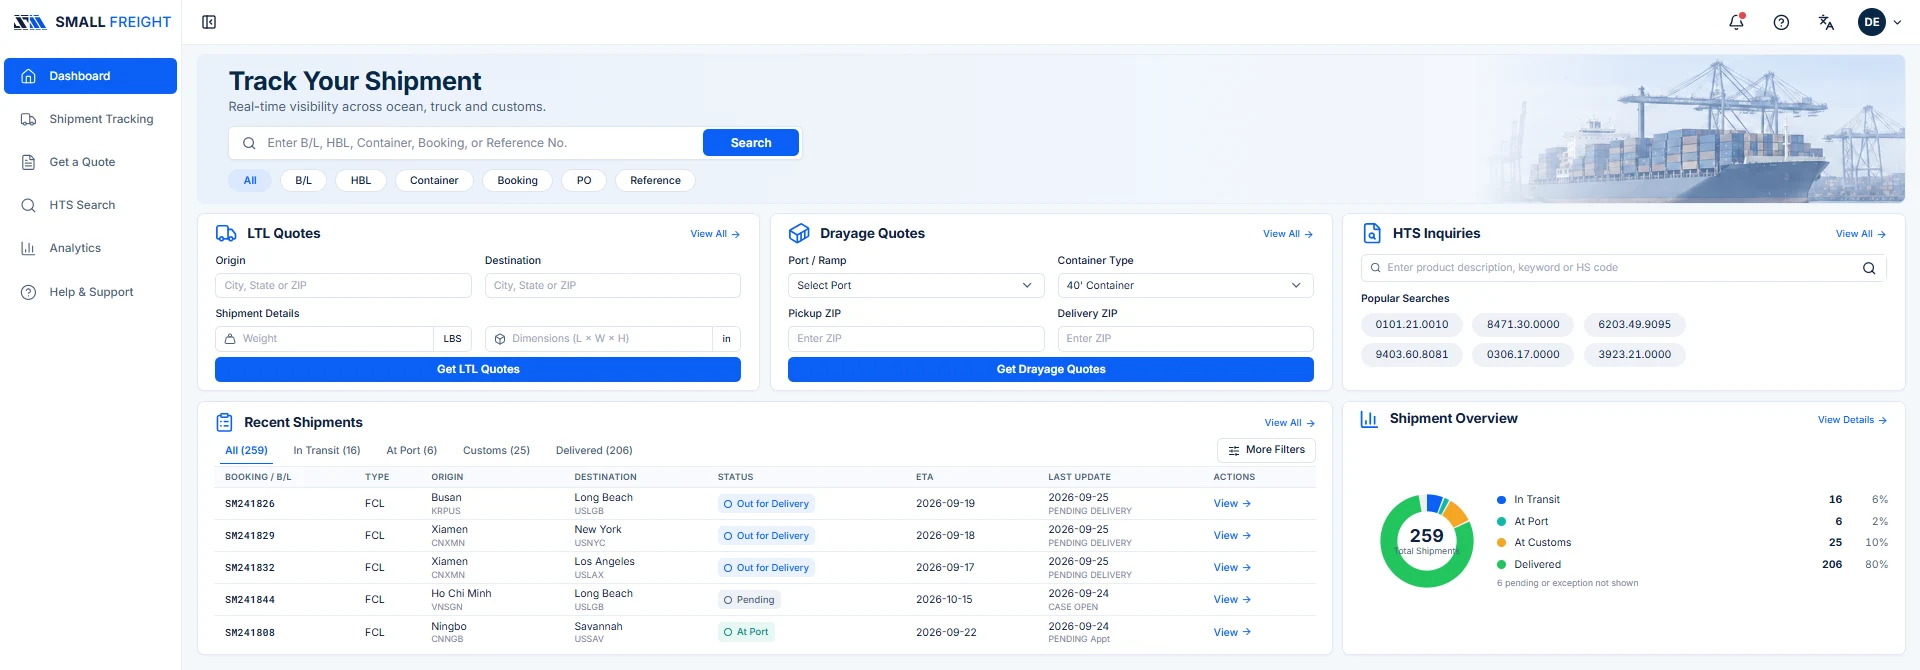
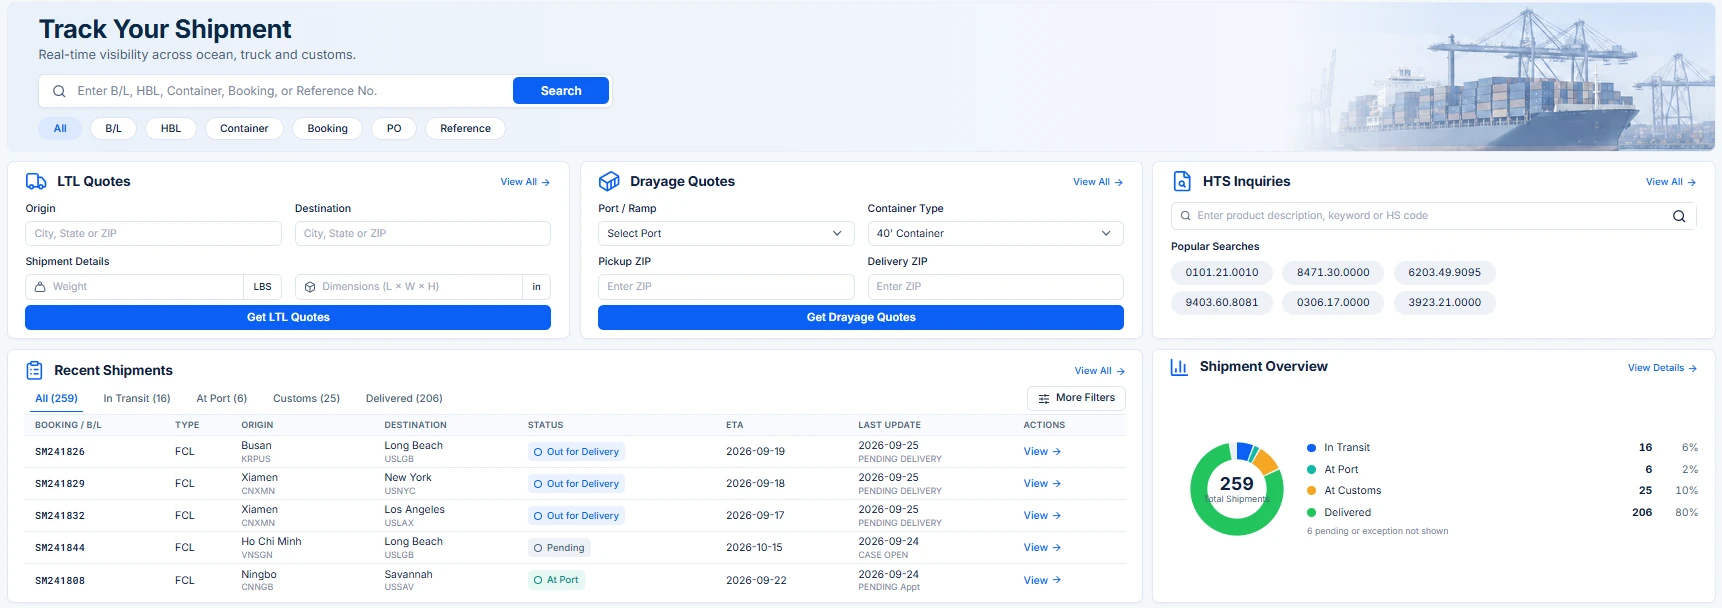
Small Freight page: larger, tighter screenshots with click-to-zoom
Crops the portal sidebar, header and empty space out of each screenshot,
shows only the detail panel in the tracking shot, widens the feature
rows so the images display larger, and opens any app screenshot full
screen on click.

diff --git a/small-freight.html b/small-freight.html
@@ -84,7 +84,7 @@
       </div>
 
       <div class="sp-app sp-shot sp-hero-app reveal">
-        <img src="image/sf-shot-dashboard.webp" width="1920" height="670" alt="SMALL FREIGHT dashboard with shipment search, LTL and drayage quote forms, HTS search, recent shipments and a shipment overview chart" />
+        <img src="image/sf-shot-dashboard.webp" width="1722" height="608" alt="SMALL FREIGHT dashboard with shipment search, LTL and drayage quote forms, HTS search, recent shipments and a shipment overview chart" />
       </div>
     </div>
   </section>
@@ -140,8 +140,8 @@
         </ul>
         <a href="track.html" class="sp-btn sp-btn-primary sf-feature-btn reveal"><span data-zh="追踪货物">Track a Shipment</span> <svg width="16" height="16" viewBox="0 0 24 24" fill="none" stroke="currentColor" stroke-width="2.5" stroke-linecap="round" stroke-linejoin="round" aria-hidden="true"><line x1="5" y1="12" x2="19" y2="12"/><polyline points="12 5 19 12 12 19"/></svg></a>
       </div>
-      <div class="sp-app sp-shot reveal">
-        <img src="image/sf-shot-shipments.webp" width="1920" height="785" alt="Shipment SM241826 detail panel with milestones from Booked to Delivered, container and customs status, update history and a route map from Busan to Long Beach" loading="lazy" />
+      <div class="sp-app sp-shot sf-shot-tall reveal">
+        <img src="image/sf-shot-shipments.webp" width="894" height="780" alt="Shipment SM241826 detail panel with milestones from Booked to Delivered, container and customs status, update history and a route map from Busan to Long Beach" loading="lazy" />
       </div>
     </div>
   </section>
@@ -199,7 +199,7 @@
         <a href="https://coolcopa0303-png.github.io/smallfreight/login/" target="_blank" rel="noopener" class="sp-btn sp-btn-primary sf-feature-btn reveal"><span data-zh="获取 LTL 报价">Get an LTL Quote</span> <svg width="16" height="16" viewBox="0 0 24 24" fill="none" stroke="currentColor" stroke-width="2.5" stroke-linecap="round" stroke-linejoin="round" aria-hidden="true"><line x1="5" y1="12" x2="19" y2="12"/><polyline points="12 5 19 12 12 19"/></svg></a>
       </div>
       <div class="sp-app sp-shot reveal">
-        <img src="image/sf-shot-ltl.webp" width="1920" height="891" alt="LTL quote from Fresh Meadows, NY to Whitestone, NY with a route map, route details and six carrier rates" loading="lazy" />
+        <img src="image/sf-shot-ltl.webp" width="1718" height="836" alt="LTL quote from Fresh Meadows, NY to Whitestone, NY with a route map, route details and six carrier rates" loading="lazy" />
       </div>
     </div>
   </section>
@@ -221,7 +221,7 @@
         <a href="https://coolcopa0303-png.github.io/smallfreight/login/" target="_blank" rel="noopener" class="sp-btn sp-btn-primary sf-feature-btn reveal"><span data-zh="获取拖车报价">Get a Drayage Quote</span> <svg width="16" height="16" viewBox="0 0 24 24" fill="none" stroke="currentColor" stroke-width="2.5" stroke-linecap="round" stroke-linejoin="round" aria-hidden="true"><line x1="5" y1="12" x2="19" y2="12"/><polyline points="12 5 19 12 12 19"/></svg></a>
       </div>
       <div class="sp-app sp-shot reveal">
-        <img src="image/sf-shot-dray.webp" width="1920" height="720" alt="Drayage quote from the Port of Los Angeles to Rancho Cucamonga, CA with base rate, chassis, estimated total, accessorial items and route map" loading="lazy" />
+        <img src="image/sf-shot-dray.webp" width="1718" height="636" alt="Drayage quote from the Port of Los Angeles to Rancho Cucamonga, CA with base rate, chassis, estimated total, accessorial items and route map" loading="lazy" />
       </div>
     </div>
     <div class="container">
@@ -255,7 +255,7 @@
         <a href="https://coolcopa0303-png.github.io/smallfreight/login/" target="_blank" rel="noopener" class="sp-btn sp-btn-primary sf-feature-btn reveal"><span data-zh="试用关税计算器">Try the HTS Calculator</span> <svg width="16" height="16" viewBox="0 0 24 24" fill="none" stroke="currentColor" stroke-width="2.5" stroke-linecap="round" stroke-linejoin="round" aria-hidden="true"><line x1="5" y1="12" x2="19" y2="12"/><polyline points="12 5 19 12 12 19"/></svg></a>
       </div>
       <div class="sp-app sp-shot reveal">
-        <img src="image/sf-shot-hts.webp" width="1920" height="896" alt="Duty calculator showing a 42.50% duty rate including Section 301 and Section 122 duties, cost breakdown and landed cost" loading="lazy" />
+        <img src="image/sf-shot-hts.webp" width="1716" height="548" alt="Duty calculator showing a 42.50% duty rate including Section 301 and Section 122 duties, cost breakdown and landed cost" loading="lazy" />
       </div>
     </div>
   </section>
@@ -276,7 +276,7 @@
         <a href="https://coolcopa0303-png.github.io/smallfreight/login/" target="_blank" rel="noopener" class="sp-btn sp-btn-primary sf-feature-btn reveal"><span data-zh="查看分析">View Analytics</span> <svg width="16" height="16" viewBox="0 0 24 24" fill="none" stroke="currentColor" stroke-width="2.5" stroke-linecap="round" stroke-linejoin="round" aria-hidden="true"><line x1="5" y1="12" x2="19" y2="12"/><polyline points="12 5 19 12 12 19"/></svg></a>
       </div>
       <div class="sp-app sp-shot reveal">
-        <img src="image/sf-shot-analytics.webp" width="1920" height="680" alt="Analytics with total, active and delivered shipment counts, shipments by ETA month, status distribution, service mix and mode mix" loading="lazy" />
+        <img src="image/sf-shot-analytics.webp" width="1716" height="592" alt="Analytics with total, active and delivered shipment counts, shipments by ETA month, status distribution, service mix and mode mix" loading="lazy" />
       </div>
     </div>
   </section>

diff --git a/styles.css b/styles.css
@@ -3594,3 +3594,36 @@ body.sm-modal-open { overflow: hidden; }
   .sf-ports li:nth-child(odd) { border-left: 0; }
   .sf-ports li:nth-child(n+3) { border-top: 1px solid #E6ECF5; }
 }
+
+/* Small Freight: wider layout so the portal screenshots read at a useful size */
+.sf-page .sp-hero > .container,
+.sf-page .sp-feature > .container { max-width: 1440px; }
+.sf-page .sp-hero-grid { grid-template-columns: 0.78fr 1.22fr; gap: 48px; }
+.sf-page .sp-feature-grid { grid-template-columns: 0.6fr 1.4fr; gap: 56px; }
+.sf-page .sf-reverse { grid-template-columns: 1.4fr 0.6fr; }
+.sf-page .sf-shot-tall { max-width: 720px; justify-self: center; }
+@media (max-width: 1100px) {
+  .sf-page .sp-hero-grid, .sf-page .sp-feature-grid, .sf-page .sf-reverse { grid-template-columns: 1fr; }
+  .sf-page .sp-hero-app, .sf-page .sp-feature-grid .sp-app { max-width: none; }
+  .sf-page .sf-shot-tall { max-width: 720px; justify-self: start; }
+}
+
+/* Click-to-zoom for app screenshots */
+.sp-shot img { cursor: zoom-in; }
+.shot-lightbox {
+  position: fixed; inset: 0; z-index: 2100;
+  display: flex; align-items: center; justify-content: center;
+  padding: 24px; background: rgba(8, 22, 48, 0.82);
+  cursor: zoom-out; opacity: 0; transition: opacity 0.2s ease;
+}
+.shot-lightbox.open { opacity: 1; }
+.shot-lightbox img {
+  max-width: 100%; max-height: 100%; width: auto; height: auto;
+  border-radius: 10px; box-shadow: 0 30px 80px rgba(0,0,0,0.4); background: #fff;
+}
+.shot-lightbox-close {
+  position: absolute; top: 16px; right: 16px; width: 44px; height: 44px;
+  display: flex; align-items: center; justify-content: center;
+  border: 0; border-radius: 50%; background: rgba(255,255,255,0.14); color: #fff; cursor: pointer;
+}
+.shot-lightbox-close:hover { background: rgba(255,255,255,0.26); }

diff --git a/main.js b/main.js
@@ -346,3 +346,31 @@ document.querySelectorAll('[data-slider]').forEach(slider => {
   goTo(0);
   start();
 });
+
+// ======================== SCREENSHOT LIGHTBOX ========================
+document.querySelectorAll('.sp-shot img').forEach(img => {
+  img.addEventListener('click', () => {
+    const box = document.createElement('div');
+    box.className = 'shot-lightbox';
+    box.setAttribute('role', 'dialog');
+    box.setAttribute('aria-modal', 'true');
+    box.innerHTML = '<button type="button" class="shot-lightbox-close" aria-label="Close"><svg width="20" height="20" viewBox="0 0 24 24" fill="none" stroke="currentColor" stroke-width="2" stroke-linecap="round" stroke-linejoin="round" aria-hidden="true"><line x1="18" y1="6" x2="6" y2="18"/><line x1="6" y1="6" x2="18" y2="18"/></svg></button>';
+    const big = document.createElement('img');
+    big.src = img.currentSrc || img.src;
+    big.alt = img.alt;
+    box.appendChild(big);
+    document.body.appendChild(box);
+    document.body.style.overflow = 'hidden';
+    requestAnimationFrame(() => box.classList.add('open'));
+    const close = () => {
+      box.remove();
+      document.body.style.overflow = '';
+      document.removeEventListener('keydown', onKey);
+      img.focus?.();
+    };
+    const onKey = e => { if (e.key === 'Escape') close(); };
+    box.addEventListener('click', close);
+    document.addEventListener('keydown', onKey);
+    box.querySelector('button').focus();
+  });
+});
